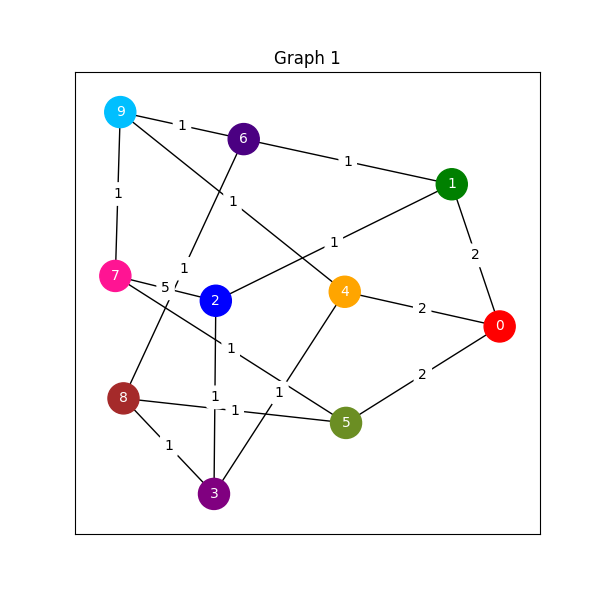
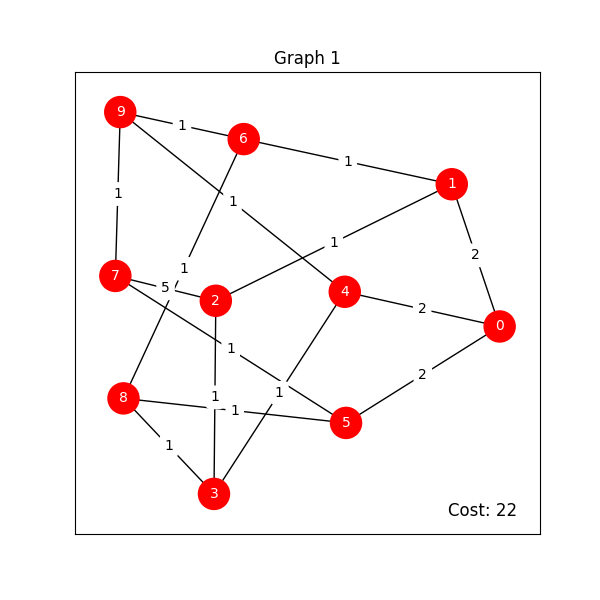
cost function done

diff --git a/src/graph.py b/src/graph.py
@@ -22,6 +22,26 @@ def load_json_graph(json_file):
 
     return graph, graph_name
 
+def load_color_map(color_map_file):
+    '''
+    Load the color map from a JSON file.
+    '''
+    with open(color_map_file, 'r') as f:
+        data = json.load(f)
+    return data['color_map']
+
+
+def calc_cost(graph):
+    cost = 0
+    
+    vertex_colors = nx.get_node_attributes(graph, 'color')
+    
+    for u, v, data in graph.edges(data=True):
+        if vertex_colors.get(u) == vertex_colors.get(v):  # Check if connected vertices have the same color
+            cost += data.get('weight')
+
+    return cost
+
 def draw_graph(graph, graph_name):
     '''
     Draw the graph using Graphviz and save to an image file.
@@ -45,17 +65,26 @@ def draw_graph(graph, graph_name):
     nx.draw_networkx(graph, pos, with_labels=True, node_color=vertex_colors, node_size=500, edge_color='black', font_color='white', font_size=10)
     nx.draw_networkx_edge_labels(graph, pos, edge_labels=edge_weights, rotate=False)
 
+    cost = calc_cost(graph)
+
+    plt.text(
+        0.95, 0.05, f'Cost: {cost}', 
+        horizontalalignment='right',
+        verticalalignment='center', 
+        transform=plt.gca().transAxes,
+        fontsize=12, 
+        bbox=dict(facecolor='white', alpha=0.5, edgecolor='none')
+        )
+
     plt.title(graph_name)
     plt.savefig(graph_name)
     plt.show()
 
-def load_color_map(color_map_file):
-    '''
-    Load the color map from a JSON file.
-    '''
-    with open(color_map_file, 'r') as f:
-        data = json.load(f)
-    return data['color_map']
+def greedy(graph):
+    pass
+
+def reluctant(graph):
+    pass
 
 
 if __name__ == '__main__':
@@ -68,3 +97,6 @@ if __name__ == '__main__':
     color_map = load_color_map(color_map_path)
 
     draw_graph(graph_1, graph_1_name)
+    
+    # cost = calc_cost(graph_1)
+    # print("Cost of the graph:", cost)
